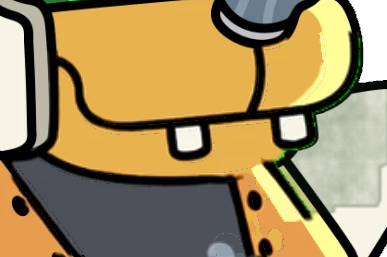
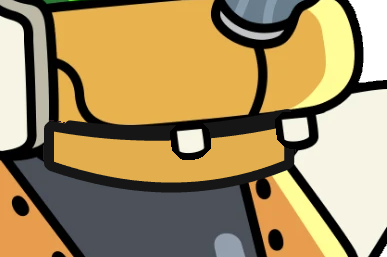
Robot Raccoon #3159 talks with a hinged robot jaw; robot lights glow in their own shape; smoother timeline dragging; songs move the mouth with the singing voice
- faces/3159: ten new mouths from his own picture (tools/robot_jaw.py): the lower jaw drops from the back, a dark mouth
  and tongue behind his buck teeth, grill teeth for EE. The old Canva frames had pasted boxes and lines.
- fx.js: robot lights glow as their own shape (a soft halo), not a circle over the whole visor; #3159's light is just his
  two green pupils (not the round shines on them). Lights take an optional colour tolerance.
- Timeline: dragging a block moves only that block, once a frame (it used to rebuild the whole timeline on every move,
  which jumped and could lose the finger on a phone); the block keeps the finger (pointer capture).
- Lips that barely move (or stay stuck open) around a moment no longer hold the mouth shut while there is a voice: the
  voice leads there. One odd reading alone doesn't count as movement.
- Songs: the singing voice's own level (middle of the stereo mix, 300 Hz-3.4 kHz, minus the sides) says when someone
  sings and where the syllables are, instead of the whole mix's level (drums, bass).
- ART_V bumped.

Claude-Session: https://claude.ai/code/session_01AAjfD4JXrwKrGtAMJHTTVa

Changed region(s): [[0.062, 0.1245, 1.0, 1.0], [0.031, 0.6226, 0.2171, 1.0]]

diff --git a/index.html b/index.html
@@ -264,6 +264,7 @@ header .credit b{font-weight:400}
 .ed-lane.on{background:rgba(255,210,63,.18)}
 .ed-blk{position:absolute;top:8px;height:40px;border:2.5px solid var(--ink);border-radius:9px;touch-action:pan-x;cursor:grab;box-sizing:border-box}
 .ed-blk.sel{touch-action:none;border-color:var(--ink);box-shadow:0 0 0 3px var(--gold);z-index:2}
+.ed-blk.drag{z-index:5;cursor:grabbing;will-change:left,width,transform}
 .ed-blk.now{filter:brightness(1.12);outline:2px dashed var(--ink);outline-offset:1px}
 .ed-h{position:absolute;top:-3px;bottom:-3px;width:18px;background:var(--gold);border:2.5px solid var(--ink);font:900 16px/34px var(--body);font-style:normal;text-align:center;cursor:ew-resize;touch-action:none}
 .ed-hl{left:-11px;border-radius:8px 0 0 8px}.ed-hr{right:-11px;border-radius:0 8px 8px 0}
@@ -461,7 +462,7 @@ header .credit b{font-weight:400}
 // Config
 // ---------------------------------------------------------------------------
 const MP_VERSION = '0.10.14';
-const ART_V = '20261117-1330';   // bump when art changes, so phones never show old cached frames
+const ART_V = '20261117-2030';   // bump when art changes, so phones never show old cached frames
 const MP_MODEL = 'https://storage.googleapis.com/mediapipe-models/face_landmarker/face_landmarker/float16/1/face_landmarker.task';
 
 // Each Nibble: eye layers e0–e4 and ten whole-face mouth frames m0–m9, all lined up at 1000×1000.
@@ -1386,13 +1387,23 @@ function vmVoice(now, t) {
   let pk = 0; for (let j = Math.max(0, k - 12); j <= Math.min(n - 1, k + 12); j++) if (T.e[j] > pk) pk = T.e[j];
   const nv = VM.env.nov, j = Math.floor(t * 50);
   V.inLine = !VM.talk || !!VM.talk[Math.floor(t / 0.05)];   // inside one of the lines (who talks when)
-  V.rms = e; V.trusted = true; V.hiss = 0; V.whistle = false; V.voiced = e > T.thr && !(nv && nv[j]) && V.inLine;
-  V.loudish = e > T.thr * 0.8;   // any sound at all (a voice under a horn too)
+  // in a song the voice sits under the music, so its level alone can't say when someone sings: where the sound
+  // classifier hears a voice, a much quieter level still counts (the dips between syllables still shut the mouth)
+  // in a song the voice sits under the music, so the mix's level can't say when someone sings or where the syllables are:
+  // the singing voice's own level (VM.env.vt.ev, the middle of the mix in the voice's band) says both
+  const song = nv && nv.music > 0.3 && T.ev;
+  V.rms = e; V.trusted = true; V.hiss = 0; V.whistle = false; V.loudish = e > T.thr * 0.8;   // (loudish: any sound at all, a voice under a horn too)
+  if (song) {
+    const ve = T.ev[k]; let pv = 0; for (let q = Math.max(0, k - 25); q <= Math.min(n - 1, k + 25); q++) if (T.ev[q] > pv) pv = T.ev[q];
+    V.voiced = ve > Math.max(T.evThr, pv * 0.3) && !(nv && nv[j]) && V.inLine;
+    if (V.voiced) { V.lastVoice = now; V.level = clamp(ve / T.evLoud, 0, 1); V.dip = ve < pv * 0.45; }
+  } else {
+    V.voiced = e > T.thr && !(nv && nv[j]) && V.inLine;
+    if (V.voiced) { V.lastVoice = now; V.level = clamp((e - T.thr) / (T.loud - T.thr), 0, 1); V.dip = e < pk * 0.45; }
+  }
   if (V.voiced) {
-    V.lastVoice = now; V.level = clamp((e - T.thr) / (T.loud - T.thr), 0, 1);
-    const i0 = Math.max(0, Math.min(T.x.length - 2048, Math.round(t * T.sr) - 1024));
-    V.sh = LIPS.shape(LIPS.analyse(T.x.subarray(i0, i0 + 2048), T.sr));
-    V.dip = e < pk * 0.45;
+    const i0 = Math.max(0, Math.min(T.x.length - 2048, Math.round(t * T.sr) - 1024)), X = song ? T.xv : T.x;   // (a song: the voice's band of the middle)
+    V.sh = LIPS.shape(LIPS.analyse(X.subarray(i0, i0 + 2048), T.sr));
   } else { V.level = 0; V.sh = null; V.dip = false; }
 }
 function cameraOff() {
@@ -1587,6 +1598,7 @@ const FADE = { mouth:40, eye:40 };
 // steadily for a moment, and each shape stays up long enough to read. Closing for silence or M/B/P lands at once.
 const MH = [];   // recent shape requests (last ~80 ms)
 function settleMouth(want, now) {
+  if (window.__mlog) window.__want = want;   // (tests)
   MH.push([now, want]); while (MH.length && now - MH[0][0] > 80) MH.shift();
   // the shape asked for most over the last ~0.1 s wins, so jitter between two shapes can't flicker
   const tally = {}; for (const [, w] of MH) tally[w] = (tally[w] || 0) + 1;
@@ -2799,6 +2811,23 @@ async function vmEnvelope(file, grab) {
     const fl = pc(0.05), thr = Math.max(0.004, fl * 2, fl + (pc(0.95) - fl) * 0.1);
     const vo = sorted.filter(x => x > thr), loud = Math.max(thr * 1.5, vo[Math.floor(vo.length * 0.9)] || thr * 3);
     out.vt = { x:full, sr, e, thr, loud };
+    // the singing voice under a band: the middle of the stereo picture (where the singer is mixed) minus its sides (where
+    // most instruments spread), in the voice's own band (300 Hz to 3.4 kHz, so drums and bass hardly count)
+    try {
+      const bq = (y, type, f0) => {   // one 2nd-order filter, run over the whole track
+        const w = 2 * Math.PI * f0 / sr, al = Math.sin(w) / (2 * 0.707), c = Math.cos(w), a0 = 1 + al;
+        const b0 = type === 'lp' ? (1 - c) / 2 : (1 + c) / 2, b1 = type === 'lp' ? 1 - c : -(1 + c), b2 = b0, a1 = -2 * c, a2 = 1 - al;
+        const o = new Float32Array(y.length); let x1 = 0, x2 = 0, y1 = 0, y2 = 0;
+        for (let i = 0; i < y.length; i++) { const x0 = y[i], v = (b0 * x0 + b1 * x1 + b2 * x2 - a1 * y1 - a2 * y2) / a0; o[i] = v; x2 = x1; x1 = x0; y2 = y1; y1 = v; }
+        return o; };
+      const band = y => bq(bq(bq(bq(y, 'hp', 300), 'hp', 300), 'lp', 3400), 'lp', 3400);
+      const mid = band(full), side = chs.length > 1 ? band(chs[0].map((v, i) => (v - chs[1][i]) / 2)) : null;
+      const ev = new Float32Array(n100);
+      for (let k = 0; k < n100; k++) { const c = Math.round(k * h100), i0 = Math.max(0, c - 80 * sr / 1000 | 0), i1 = Math.min(b.length, c + 80 * sr / 1000 | 0); let m2 = 0, s2 = 0;
+        for (let i = i0; i < i1; i++) { m2 += mid[i] * mid[i]; if (side) s2 += side[i] * side[i]; } const nn = Math.max(1, i1 - i0); ev[k] = Math.max(0, Math.sqrt(m2 / nn) - Math.sqrt(s2 / nn)); }
+      const sv = Array.from(ev).sort((x, y) => x - y), pv = q => sv[Math.min(sv.length - 1, Math.floor(sv.length * q))] || 0;
+      Object.assign(out.vt, { ev, xv:mid, evThr:Math.max(1e-4, pv(0.25)), evLoud:Math.max(2e-4, pv(0.92)) });
+    } catch (e) {}
     out.nov = await vmSoundKinds(b);
     return out;
   } catch (e) { return null; }
@@ -3750,11 +3779,18 @@ function edGrab(e, l, el) {
       for (const o of others()) if (t < o.t1 && t + len > o.t0) t = (a0 + dt) < (o.t0 + o.t1) / 2 - len / 2 ? o.t0 - len : o.t1;
       l.t0 = Math.max(0, Math.min(VM.dur - len, t)); l.t1 = l.t0 + len;
     }
-    ED.lane = l.who; edDraw();
+    ED.lane = l.who; paint();
   };
-  const up = () => { removeEventListener('pointermove', mv); removeEventListener('pointerup', up); removeEventListener('pointercancel', up);
+  // while dragging only the dragged block moves (once a frame): rebuilding the whole timeline on every move made it jump,
+  // and on a phone it lost the finger. The timeline is drawn again when the finger lifts.
+  let raf = 0; const pps = ED.pps;
+  const paint = () => { if (raf) return; raf = requestAnimationFrame(() => { raf = 0;
+    el.classList.add('sel', 'drag'); el.style.left = (l.t0 * pps) + 'px'; el.style.width = Math.max(6, (l.t1 - l.t0) * pps) + 'px';
+    el.style.transform = l.who !== w0 ? `translateY(${(l.who - w0) * rowH}px)` : ''; el.style.background = LANE_COL[l.who % LANE_COL.length]; }); };
+  try { el.setPointerCapture(e.pointerId); } catch (er) {}
+  const up = () => { removeEventListener('pointermove', mv); removeEventListener('pointerup', up); removeEventListener('pointercancel', up); cancelAnimationFrame(raf);
     if (!moved) { ED.sel = l; ED.lane = l.who; ED.v.currentTime = l.t0; } vmLinesToTimeline(); edDraw(); };
-  addEventListener('pointermove', mv); addEventListener('pointerup', up); addEventListener('pointercancel', up);
+  addEventListener('pointermove', mv, { passive:true }); addEventListener('pointerup', up); addEventListener('pointercancel', up);
 }
 // Split: the picked line (or the one under the red line) cut in two where the red line is
 function edSplit() {
@@ -3781,6 +3817,16 @@ function edAdd() {
 function edDel() { if (!ED.sel) return edHint('Tap a block first, then 🗑 takes it out.'); vmMark(); VM.lines.splice(VM.lines.indexOf(ED.sel), 1); ED.sel = null; vmLinesToTimeline(); edDraw(); }
 
 // the face reading for person p at time t (the nearest one the tracker caught, if it's recent)
+// how much this person's lips move around time t (the spread of their openness over nearly a second). Lips that hardly move
+// while there's a voice (a face half hidden, small or blurry, a singer behind a mask), or lips stuck open, say nothing
+// about the words: then the voice moves the mouth instead
+function vmLipAct(p, t) {
+  const a = VM.people[p].smp; if (!a || !a.length) return 0;
+  let lo = 0, hi = a.length - 1; while (lo < hi) { const m = (lo + hi) >> 1; if (a[m].t < t - 0.45) lo = m + 1; else hi = m; }
+  const w = []; for (let i = lo; i < a.length && a[i].t <= t + 0.45; i++) w.push(a[i].open);
+  if (w.length < 3) return 1;   // (too few readings to tell: trust them as before)
+  w.sort((x, y) => x - y); return w[w.length - 2] - w[0];   // (the second widest: one odd reading alone isn't movement)
+}
 function vmSample(p, t) {
   const a = VM.people[p].smp; let lo = 0, hi = a.length - 1;
   while (lo < hi) { const m = (lo + hi + 1) >> 1; if (a[m].t <= t) lo = m; else hi = m - 1; }
@@ -3903,7 +3949,7 @@ function vmBackRow(now, t, p) {
 // everyone sings, the voice too (a moment behind, a little softer, so they aren't a perfect copy of the lead); held ~0.1 s a shape
 function vmBackMouth(i, t, now, sing, quiet) {
   const P = VM.people, st = VM.bm || (VM.bm = {}), b = st[i] || (st[i] = { cur:0, t:0 });
-  let r = 0; const x = P[i] && vmSample(i, t + VM_LEAD); if (x && P[i].moScale) r = clamp(x.mo / P[i].moScale, 0, 1.2);
+  let r = 0; const x = P[i] && vmSample(i, t + VM_LEAD); if (x && P[i].moScale && vmLipAct(i, t + VM_LEAD) >= 0.12) r = clamp(x.mo / P[i].moScale, 0, 1.2);   // (lips stuck open or barely seen: no)
   if (!quiet && (sing || VM.sing || VM.group === 'sing') && VM.env && VM.env.vt) {
     const T = VM.env.vt, tt = t + VM_LEAD - 0.04 - (i % 3) * 0.03, k = Math.max(0, Math.min(T.e.length - 1, Math.round(tt * 100))), nv = VM.env.nov;
     const talk = !VM.talk || VM.talk[Math.floor(tt / 0.05)], quiet = nv && nv[Math.floor(tt * 50)];
@@ -3948,8 +3994,10 @@ function vmFrame(now) {
   if (x) { Object.assign(f, x); f.seen = true; if (x.bu > t * 1000) S.blinkUntil = now + (x.bu - t * 1000);
     // a face running off the edge of the picture, or a small one far back (a choir), can't be read for its mouth's shape
     // (lips that look pressed on a blur would shut the mouth while they sing): the voice picks the shape
-    f.live = !(x.edge || x.s < 0.13) && P[p].lipOk !== false;
-    if (!f.live) Object.assign(f, { round:0, wide:0, smile:0, press:0, frown:0, fv:0, lowIn:0, upIn:0 }); }
+    const still = vmLipAct(p, t + VM_LEAD) < 0.12;
+    f.live = !(x.edge || x.s < 0.13) && P[p].lipOk !== false && !still;
+    if (!f.live) Object.assign(f, { round:0, wide:0, smile:0, press:0, frown:0, fv:0, lowIn:0, upIn:0 });
+    if (still) { f.open = 0; f.jaw = 0; } }
   else {   // not seen right now: a resting face, the voice still moves the mouth, an easy blink now and then
     Object.assign(f, { open:0, wide:0, round:0, smile:0, press:0, frown:0, fv:0, jaw:0, lowIn:0, upIn:0, blink:0, brow:0, browUp:0, eyeWide:0, live:false }); f.seen = true;
     if (now > (VM.nb || 0)) { S.blinkUntil = now + 170; VM.nb = now + 2800 + Math.random() * 2600; }
@@ -3969,6 +4017,7 @@ function vmFrame(now) {
   }
   if (mir) { ctx.translate(stage.width, 0); ctx.scale(-1, 1); }
   drawNibble(now); ctx.restore(); S.solo = false;
+  if (window.__mlog) window.__mlog.push([+t.toFixed(3), p, S.mouth.cur, +(f.open || 0).toFixed(2), +(f.jaw || 0).toFixed(2), !!f.live, !!V.voiced, !!V.loudish, window.__want, +(V.level || 0).toFixed(2), !!V.dip]);   // (tests)
   vmText(); vmCaption(t);
   const pr = $('vmProg'); if (pr) pr.style.width = (100 * t / VM.dur).toFixed(1) + '%';
   // the end: phones don't always send the video's "ended" event, so the last frame (or a stall right at the end) finishes it too

diff --git a/fx.js b/fx.js
@@ -9,12 +9,12 @@
 const N = 1000;
 const cv = (w, h) => { const c = document.createElement('canvas'); c.width = w; c.height = h; return c; };
 
-// hand-placed parts for the built-in specials (1000px art): robot lights [x, y, radius, colour] and dissection hearts
+// hand-placed parts for the built-in specials (1000px art): robot lights [x, y, radius, colour, how close to the colour (default 170)] and dissection hearts
 export const FX_HAND = {
   546:  { lights:[[560, 505, 150, '#ff4f8b']] },                                       // the pink visor
   2775: { lights:[[402, 128, 34, '#ffffff'], [548, 88, 34, '#ffffff'], [600, 420, 250, '#3cff5a']] },   // antenna bulbs, the screen face
   3113: { lights:[[480, 430, 90, '#ffd23f'], [705, 405, 70, '#ffd23f']] },              // yellow eyes
-  3159: { lights:[[572, 150, 30, '#ffffff'], [570, 480, 130, '#3cff5a']] },              // antenna ball, green visor
+  3159: { lights:[[572, 150, 30, '#ffffff'], [570, 480, 130, '#38f800', 80]] },         // antenna ball, the two green pupils (not the round shines on them)
   3295: { lights:[[540, 450, 130, '#ffd23f'], [560, 330, 45, '#a24bff']] },              // yellow eyes, purple gem
   3543: { lights:[[560, 330, 150, '#3cff5a']] },                                        // green visor
   5900: { lights:[[500, 215, 45, '#ff3b30'], [150, 240, 26, '#ffffff'], [560, 400, 150, '#ffd23f']] },   // red antenna light, eyes
@@ -193,12 +193,17 @@ export function prepareFx(base, traits = {}, hand = null) {
     if (spins.length) fx.push({ type:'spin', spins });
   }
   // the built-in specials: robot lights blink, anatomy hearts beat
-  if (hand && hand.lights) fx.push({ type:'lights', lights:hand.lights.map(([x, y, r, col], k) => {
+  if (hand && hand.lights) fx.push({ type:'lights', lights:hand.lights.map(([x, y, r, col, tol = 170], k) => {
     const [cr, cg, cb] = hexRGB(col), m = new Uint8Array(N * N);   // the light's own pixels: close to its colour, inside its circle
     for (let yy = Math.max(0, y - r); yy < Math.min(N, y + r); yy++) for (let xx = Math.max(0, x - r); xx < Math.min(N, x + r); xx++) { const i = yy * N + xx;
-      if (A(i) > 200 && Math.hypot(xx - x, yy - y) < r && Math.abs(d[i * 4] - cr) + Math.abs(d[i * 4 + 1] - cg) + Math.abs(d[i * 4 + 2] - cb) < 170) m[i] = 1; }
+      if (A(i) > 200 && Math.hypot(xx - x, yy - y) < r && Math.abs(d[i * 4] - cr) + Math.abs(d[i * 4 + 1] - cg) + Math.abs(d[i * 4 + 2] - cb) < tol) m[i] = 1; }
     const bx = [Math.max(0, x - r), Math.max(0, y - r), Math.min(N - 1, x + r), Math.min(N - 1, y + r)];
-    return { x, y, r, col, img:sprite(d, m.map(v => v), bx), box:bx, ph:k * 1.7 }; }) });
+    // its glow: the light's own shape in its colour, blurred (shrunk small, then drawn big and smooth), so only the light itself glows
+    const pad = 28, w = bx[2] - bx[0] + 1 + pad * 2, h = bx[3] - bx[1] + 1 + pad * 2, sh = cv(w, h), sg = sh.getContext('2d');
+    sg.drawImage(sprite(d, m, bx), pad, pad); sg.globalCompositeOperation = 'source-in'; sg.fillStyle = col; sg.fillRect(0, 0, w, h);
+    const sm = cv(Math.max(1, Math.round(w / 10)), Math.max(1, Math.round(h / 10))), smg = sm.getContext('2d'); smg.imageSmoothingQuality = 'high'; smg.drawImage(sh, 0, 0, sm.width, sm.height);
+    const glow = cv(w, h), gg = glow.getContext('2d'); gg.imageSmoothingQuality = 'high'; gg.drawImage(sm, 0, 0, w, h); gg.drawImage(sm, -3, -3, w + 6, h + 6);
+    return { x, y, r, col, img:sprite(d, m, bx), glow, pad, box:bx, ph:k * 1.7 }; }) });
   if (hand && hand.heart) {
     const red = new Uint8Array(N * N); for (let y = 520; y < N; y++) for (let x = 0; x < N; x++) { const i = y * N + x, r = d[i * 4], g = d[i * 4 + 1], b = d[i * 4 + 2]; if (A(i) > 200 && r > 165 && g < 95 && b < 105 && !(hand.heart.x1 && x > hand.heart.x1)) red[i] = 1; }
     const ps = parts(red, 60).sort((a, b) => b.n - a.n);
@@ -299,8 +304,7 @@ export function drawFx(ctx, fx, t, x, y, size) {
       const on = Math.max(0, Math.sin(t / 1000 * 3.1 + l.ph)) ** 3;
       ctx.save(); ctx.globalCompositeOperation = 'lighter';
       ctx.globalAlpha = 0.55 * on; ctx.drawImage(l.img, l.box[0], l.box[1]);
-      const g = ctx.createRadialGradient(l.x, l.y, 0, l.x, l.y, l.r * 1.25); g.addColorStop(0, l.col + 'aa'); g.addColorStop(1, l.col + '00');
-      ctx.globalAlpha = 0.6 * on; ctx.fillStyle = g; ctx.fillRect(l.x - l.r * 1.3, l.y - l.r * 1.3, l.r * 2.6, l.r * 2.6); ctx.restore();
+      ctx.globalAlpha = on; ctx.drawImage(l.glow, l.box[0] - l.pad, l.box[1] - l.pad); ctx.globalAlpha = 0.5 * on; ctx.drawImage(l.glow, l.box[0] - l.pad, l.box[1] - l.pad); ctx.restore();
     }
     else if (f.type === 'heart') {   // lub-dub: the heart swells behind the ribs
       const s = 1 + 0.09 * beat(t), [x0, y0] = f.box;

diff --git a/tools/robot_jaw.py b/tools/robot_jaw.py
@@ -1,0 +1,95 @@
+# Robot Raccoon #3159: ten mouths made from his own picture. His lower jaw is a hinged robot jaw:
+# it swings down from the back (by his helmet) to talk, showing a dark mouth behind his two buck teeth.
+# Usage: python3 tools/robot_jaw.py [out_dir]   (default: faces/3159)
+import sys, numpy as np
+from PIL import Image
+from scipy import ndimage
+
+ID = 3159; X0, Y0, X1, Y1 = 464, 548, 851, 805          # the mouth box (layout "mb"), frames are this crop
+out_dir = sys.argv[1] if len(sys.argv) > 1 else f'faces/{ID}'
+base = np.array(Image.open(f'faces/{ID}/base.webp').convert('RGBA')).astype(np.float32)
+H, W = base.shape[:2]
+rgb, A = base[..., :3], base[..., 3]
+ink = (rgb.sum(-1) < 200) & (A > 128)
+lab, n = ndimage.label(~ink & (A > 128))
+def comp_at(x, y):   # the part under a point (the nearest non-ink label in a small window)
+    w = lab[y - 6:y + 7, x - 6:x + 7]; v = np.bincount(w[w > 0].ravel()); assert v.size > 1, (x, y)
+    return lab == v.argmax()
+jaw = comp_at(620, 712)                                   # the orange lower jaw
+teeth = comp_at(654, 690) | comp_at(758, 676)             # the two buck teeth, hanging from the snout
+upper = comp_at(600, 600) | comp_at(770, 600) | comp_at(715, 572)   # snout, its pale side, the nose
+near = lambda m, r: ndimage.binary_dilation(m, iterations=r)
+# the jaw's own ink: its outline, but not the snout's bottom line or the teeth's outlines
+jaw_ink = ink & near(jaw, 10) & ~near(upper, 9) & ~near(teeth, 6)
+J = jaw | jaw_ink
+tooth_all = teeth | (ink & near(teeth, 7))
+orange = np.array([227, 175, 78], np.float32)
+INK = np.array([22, 22, 22], np.float32)
+DARK = np.array([46, 24, 34], np.float32)
+TONGUE = np.array([214, 92, 104], np.float32)
+
+
+yy, xx = np.mgrid[0:H, 0:W]
+from PIL import ImageDraw
+jx = np.where(jaw.any(0))[0]; XA, XB = jx.min() + 3, jx.max() + 4
+cols = np.arange(XA, XB + 1)
+def smooth(v, k=9): return np.convolve(np.pad(v, k // 2, mode='edge'), np.ones(k) / k, mode='valid')
+# the jaw's top edge (where it meets the snout), carried flat under the teeth and toward the back
+t = np.array([np.where(jaw[:, x])[0].min() if jaw[:, x].any() else -1 for x in cols], float)
+bad = (t < 0) | (cols < 553) | near(teeth, 4)[:, XA:XB + 1].any(0) | (np.abs(t - np.median(t)) > 8)
+top = np.polyval(np.polyfit(cols[~bad], t[~bad], 2), cols) - 2
+# the jaw's bottom edge: the middle of its outline
+b = np.array([np.where(jaw_ink[:, x] | jaw[:, x])[0].max() if (jaw_ink[:, x] | jaw[:, x]).any() else -1 for x in cols], float)
+bb = (b < 0); bot = np.polyval(np.polyfit(cols[~bb], b[~bb], 3), cols) - 5
+INKW = 10; SS = 4
+# everything the old jaw covered (it is drawn over again each frame)
+old = ((jaw | jaw_ink) & (yy >= np.interp(xx, cols, top) - 3) | (near(tooth_all, 3) & (yy >= np.interp(xx, cols, top)) & (yy < np.interp(xx, cols, bot)))) & (xx >= XA - 6) & (xx <= XB + 6)
+
+def poly(pts, k=SS): return [(x * k, y * k) for x, y in pts]
+def frame(drop, tongue=0.0, grill=False, tongue_up=False):
+    img = base.copy()
+    if drop <= 0: return img
+    u = np.clip((cols - XA) / (XB - XA), 0, 1); s = drop * (0.5 + 0.5 * u)
+    # the layers, drawn 4x big then shrunk (smooth edges): the mouth's inside, then the jaw over it
+    bx0, by0, bx1, by1 = XA - 20, int(top.min()) - 20, XB + 20, int(bot.max() + drop) + 20
+    w, h = (bx1 - bx0) * SS, (by1 - by0) * SS
+    o = lambda pts: [((x - bx0) * SS, (y - by0) * SS) for x, y in pts]
+    def shape(pts):   # a filled outline as a mask, its corners rounded a little
+        m = Image.new('L', (w, h), 0); ImageDraw.Draw(m).polygon(o(pts), fill=255)
+        m = np.array(m) > 127; return ndimage.binary_closing(ndimage.binary_opening(m, iterations=SS * 2), iterations=SS * 2)
+    up = list(zip(cols, top)); jt = list(zip(cols, top + s)); jb = list(zip(cols, bot + s))
+    Mm = shape(up + jt[::-1]); Mj = shape(jt + jb[::-1])
+    yy4, xx4 = np.mgrid[0:h, 0:w]
+    C = np.zeros((h, w, 4), np.float32)
+    C[Mm] = list(DARK) + [255]
+    if tongue > 0:
+        i = int(len(cols) * (0.5 if not tongue_up else 0.62)); cx, cy = (cols[i] - bx0) * SS, (top[i] + s[i] - by0) * SS
+        rx, ry = ((40 + 30 * tongue) * SS, (6 + 10 * tongue) * SS) if not tongue_up else (28 * SS, drop * 0.55 * SS)
+        if tongue_up: cy -= drop * 0.2 * SS
+        tg = Mm & (((xx4 - cx) / rx) ** 2 + ((yy4 - cy) / ry) ** 2 < 1); C[tg] = list(TONGUE) + [255]
+    if grill:   # robot teeth: grill bars across the open mouth
+        bars = ((xx4 // SS + bx0 - XA - 8) % 15 < 8) & Mm; C[bars] = [238, 238, 226, 255]
+    r = INKW * SS / 2
+    def stroke(M):
+        din = ndimage.distance_transform_edt(M); dout = ndimage.distance_transform_edt(~M)
+        return (M & (din <= r)) | (~M & (dout <= r))
+    C[stroke(Mm)] = list(INK) + [255]
+    C[Mj] = list(orange) + [255]
+    C[stroke(Mj)] = list(INK) + [255]
+    C[..., :3] *= C[..., 3:4] / 255
+    L = np.array(Image.fromarray(C.astype(np.uint8), 'RGBa').resize((bx1 - bx0, by1 - by0), Image.BOX).convert('RGBA')).astype(np.float32)
+    # clear the old jaw, lay the new layers on, then the buck teeth back on top (they stay up with the snout)
+    reg = img[by0:by1, bx0:bx1]
+    a = L[..., 3:4] / 255
+    reg[..., :3] = reg[..., :3] * (1 - a) + L[..., :3] * a; reg[..., 3] = np.maximum(reg[..., 3], L[..., 3])
+    left = old & ~np.pad(L[..., 3] > 0, ((by0, H - by1), (bx0, W - bx1)))
+    img[left, :3] = DARK
+    img[tooth_all] = base[tooth_all]
+    return img
+
+SPEC = {0:(0.01,), 1:(0.01,), 2:(16, 0.0), 3:(74, 1.0), 4:(30, 0.0, True), 5:(54, 0.6), 6:(26, 0.3), 7:(7, 0.0), 8:(36, 0.5, False, True), 9:(0.01,)}
+for k, s in SPEC.items():
+    img = frame(*s)
+    crop = np.clip(img[Y0:Y1, X0:X1], 0, 255).astype(np.uint8)
+    Image.fromarray(crop).save(f'{out_dir}/m{k}.webp', 'WEBP', lossless=True)
+print('ok')
